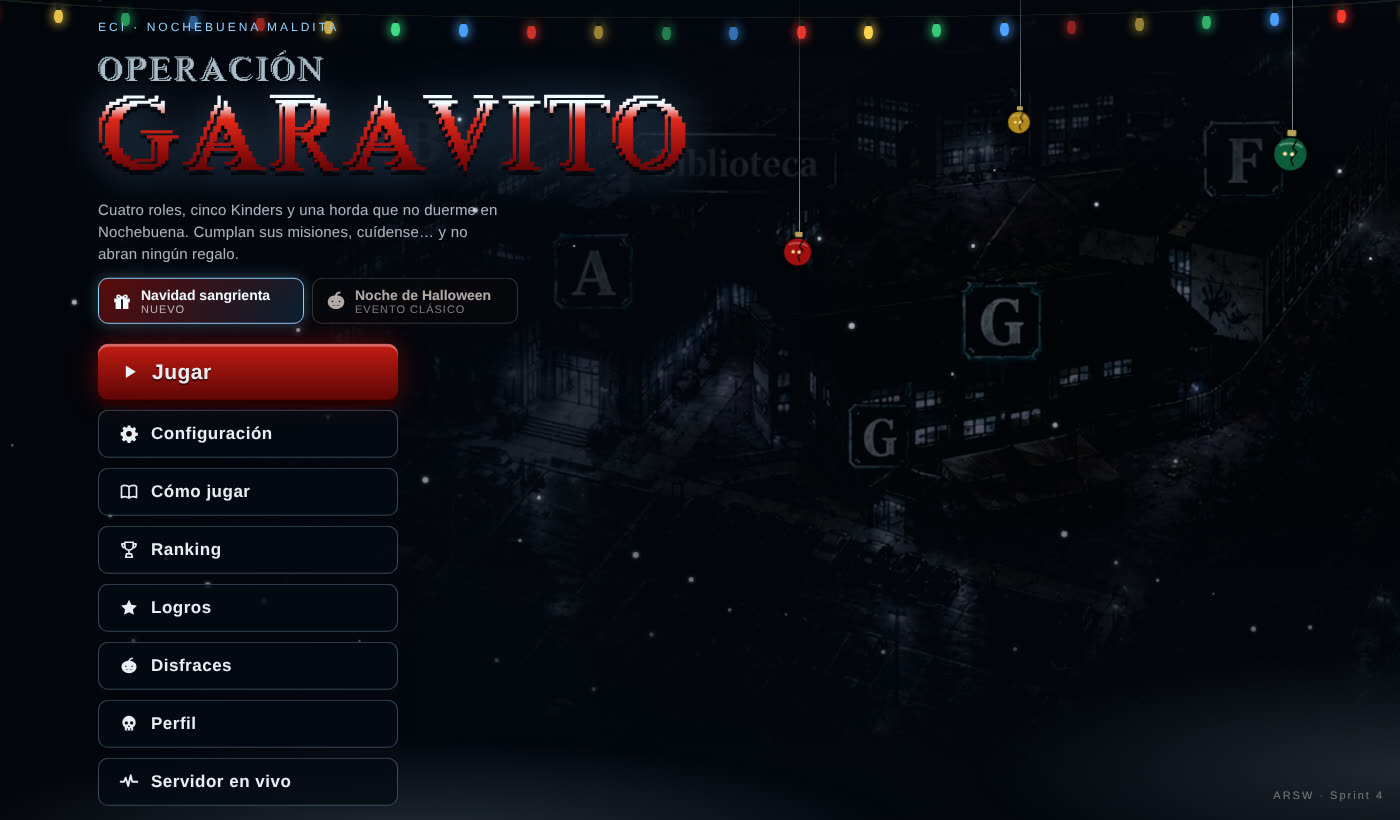
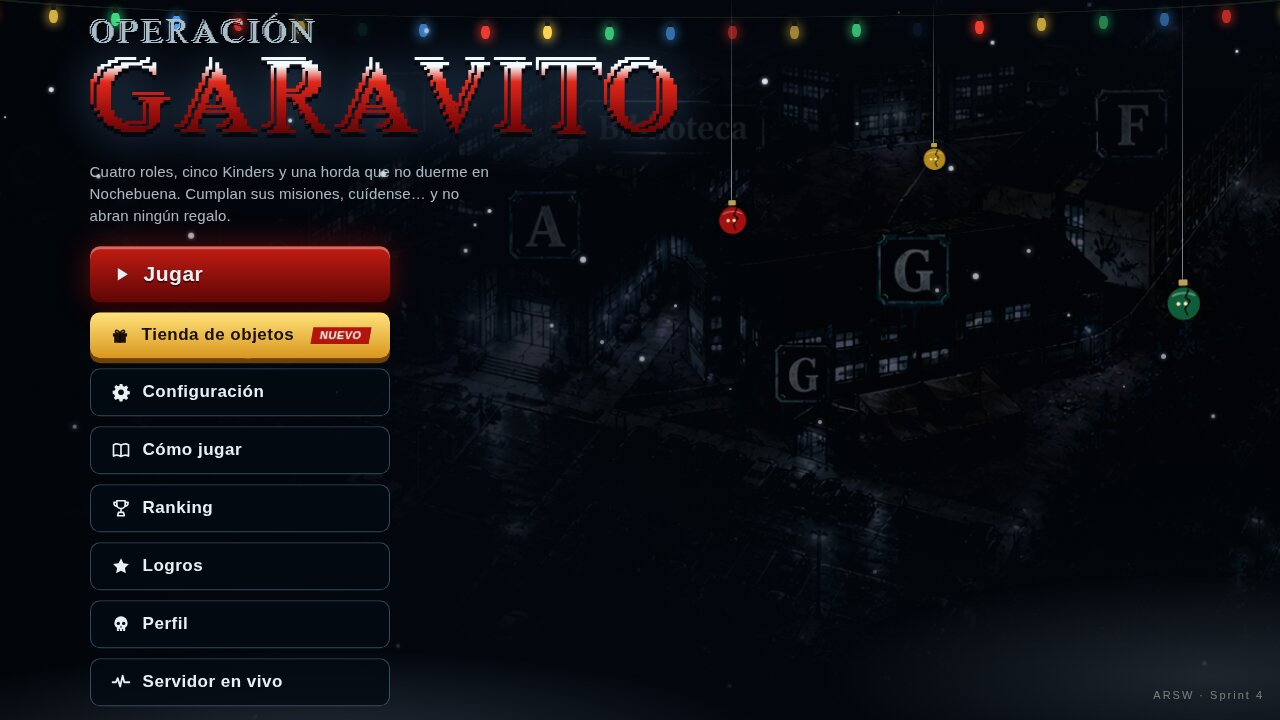
docs(temporadas): documentar el juego solo en Navidad con capturas nuevas

diff --git a/docs/temporadas/README.md b/docs/temporadas/README.md
@@ -1,61 +1,31 @@
-# Temporadas: Navidad sangrienta y Noche de Halloween
+# Navidad sangrienta
 
-El juego tiene **temporadas** (eventos): la misma partida con otra ambientación, como
-las listas de juego por evento de los shooters. La temporada actual es **Navidad
-sangrienta**: sigue dando miedo, pero con nieve, luces que fallan y regalos que nadie
-debería abrir. **Halloween**, la versión original, queda como evento para quien lo
-quiera jugar.
+El juego está ambientado en **Navidad sangrienta**: sigue dando miedo, pero con nieve,
+luces que fallan y regalos que nadie debería abrir.
 
-Las reglas no cambian: los roles, las misiones, los Kinders, los zombis y el jefe son
-los mismos. Solo cambia lo que se ve y se oye.
+Hasta noviembre de 2026 había dos temporadas y Halloween (la versión original) se podía
+elegir como evento. Se retiró para que el juego cargue y corra más liviano: ver
+[SOLO-NAVIDAD.md](SOLO-NAVIDAD.md). Lo que queda de Halloween es el tema base
+(`frontend/src/tema.css`, paleta `--hw-*` y fuentes), que `navidad.css` recolorea.
 
-## Cómo se elige
-
-En el menú principal, debajo del título, están los dos eventos. La elección se guarda
-en el navegador (`localStorage`, clave `garavito.temporada.v1`). Si nunca se eligió
-nada, la temporada es Navidad.
-
-![Menú en Navidad](img/01-menu-navidad.jpg)
-
-![Menú en Halloween](img/02-menu-halloween.jpg)
-
-**Dentro de una sala manda la temporada de la sala.** La elige quien la crea y la ven
-igual todos los que entran, aunque cada uno tenga otra preferida. Al salir de la sala,
-cada jugador vuelve a la suya. Así nadie juega una partida de Navidad mientras su
-compañero ve calabazas.
+![Menú](img/01-menu-navidad.jpg)
 
 ## Cómo funciona
 
-```
-menú (preferida, localStorage) ──crear sala──▶ /app/game/{código}/lobby { …, temporada }
-                                                     │
-                                       GameSession.temporada (NAVIDAD | HALLOWEEN)
-                                                     │
-                           LobbyState.temporada en cada estado del juego
-                                                     │
-            gameSync ─▶ setTemporadaDeSala() ─▶ <html data-temporada="navidad|halloween">
-                                                     │
-                     CSS (navidad.css) · React (useTemporada) · Phaser (getTemporada)
-```
+`<html data-temporada="navidad">` va fijo en `frontend/index.html` y activa las reglas
+de `navidad.css`. Los textos y la moneda (regalos) están en `frontend/src/game/navidad.js`.
+El servidor no sabe de ambientación: Papá Noel malvado y las travesuras de duendes y
+renos están siempre activos.
 
-| Pieza | Archivo | Qué hace |
-|---|---|---|
-| Temporada de la sala | `backend/.../game/Temporada.java`, `GameSession`, `LobbyState` | Se fija al crear la sala (por defecto `NAVIDAD`) y viaja en el estado del lobby. |
-| Preferida y activa | `frontend/src/game/temporada.js` | Catálogo de temporadas, preferencia guardada y la de la sala cuando hay una. |
-| React | `frontend/src/components/useTemporada.js` | Hook que redibuja el componente si cambia la temporada. |
-| Estilos | `frontend/src/navidad.css` | Reemplaza la paleta de Halloween (`--hw-*`) y los fondos cuando `data-temporada="navidad"`. |
-
-## Qué cambia en Navidad
+## Qué tiene
 
 ### Menús
 
-- **Fondo:** la vista nocturna del campus en vez del video de Halloween, con filtro de
+- **Fondo:** la vista nocturna del campus (`public/mapa/campus-noche.jpg`) con filtro de
   invierno, nieve que cae y una guirnalda de luces que falla.
-- **Criaturas:** donde Halloween tiene murciélagos y arañas, Navidad tiene copos de
-  nieve y esferas rotas que bajan de su hilo con ojos adentro
+- **Criaturas:** copos de nieve y esferas rotas que bajan de su hilo con ojos adentro
   (`NavidadCreatures.jsx`).
-- **Pantallas propias de Navidad**, hechas con código (sin las ilustraciones de
-  Halloween, que siguen intactas en su evento):
+- **Pantallas hechas con código:**
   - **Selección de edificio:** un **calendario de adviento maldito**. Cada edificio es
     una puerta del 19 al 24 de diciembre; al pasar por encima se entreabre y adentro
     asoman ojos rojos.
@@ -79,10 +49,10 @@ menú (preferida, localStorage) ──crear sala──▶ /app/game/{código}/lo
 
 ### Intro
 
-La primera vez en la sesión, Navidad abre con su propio video de intro, **"Navidad
+La primera vez en la sesión el juego abre con el video de intro, **"Navidad
 maldita"** (~38 s, con sonido): el duelo por la Decanatura y la presentación del juego.
 Se puede saltar o activar el sonido; al terminar, el menú queda sobre el campus de
-noche. Halloween conserva su video.
+noche.
 
 El video está en `frontend/public/video/intro-navidad.mp4` (720p, ~5 MB, recomprimido
 para la web) y su primer cuadro en `intro-navidad-poster.jpg`. Lo muestra
@@ -90,7 +60,7 @@ para la web) y su primer cuadro en `intro-navidad-poster.jpg`. Lo muestra
 
 ![Intro de Navidad](img/10-intro-navidad.jpg)
 
-La música de Navidad, en el menú y en la partida, es **"We Wish You a
+La música, en el menú y en la partida, es **"We Wish You a
 Merry Christmas"** (villancico tradicional en inglés, de dominio público) en La menor
 armónica: la caja de música rota, un coro grave durante el Kinder y un eco desafinado
 cuando hay peligro (`game/villancico.js`).
@@ -98,10 +68,9 @@ cuando hay peligro (`game/villancico.js`).
 ### Partida
 
 - **Decorado** (`game/NavidadDecor.js`): arbolitos de Navidad marchitos con luces que
-  titilan y fallan, y regalos abiertos a la fuerza, en los mismos lugares donde
-  Halloween pone calabazas. Hay carámbanos de hielo donde iban las telarañas. Las
-  posiciones salen de una semilla por edificio y piso, así que todos ven lo mismo.
-- **Nieve** que cae alrededor del jugador, en lugar de las motas de polvo.
+  titilan y fallan, regalos abiertos a la fuerza y carámbanos de hielo en las esquinas.
+  Las posiciones salen de una semilla por edificio y piso, así que todos ven lo mismo.
+- **Nieve** que cae alrededor del jugador.
 - **Luz fría:** la oscuridad es azul helada (`Lighting.js`) y un velo sobre el mapa
   enfría el piso y las luces cálidas sin apagar el rojo de la sangre.
 - **Zombis navideños:** gorro de Papá Noel rasgado (sale volando cuando mueren) y un
@@ -116,10 +85,10 @@ cuando hay peligro (`game/villancico.js`).
 
 #### Papá Noel malvado (Kinder 3)
 
-En Navidad, al empezar el **Kinder 3** aparece **Papá Noel malvado**: un jefe más débil
+Al empezar el **Kinder 3** aparece **Papá Noel malvado**: un jefe más débil
 que el Ingeniero de Sistemas (70% de vida, algo más lento, muerde menos) que suelta su
 "¡JO, JO, JO!" mientras persigue. Ese Kinder se pasa con la cuota, las misiones **y**
-derribándolo. En Halloween el Kinder 3 no tiene jefe.
+derribándolo.
 
 | Pieza | Archivo |
 |---|---|
@@ -129,7 +98,7 @@ derribándolo. En Halloween el Kinder 3 no tiene jefe.
 
 #### Duendes y renos
 
-Durante un Kinder de Navidad, cada 9 a 16 s sale **de la nada** (en una nube de nieve y
+Durante un Kinder, cada 9 a 16 s sale **de la nada** (en una nube de nieve y
 con un **!** encima) un **duende** cerca de un jugador; desde el Kinder 2 puede ser un
 **reno zombi**. Se queda un instante y tira hacia donde estaba el jugador: si se movió,
 la esquiva.
@@ -152,29 +121,25 @@ golpeado está en `screenFx.js`.
 
 #### Comida de diciembre
 
-En Navidad la comida que cura es la de diciembre en Colombia. Cura lo mismo y cuesta lo
+La comida que cura es la de diciembre en Colombia. Cura lo mismo y cuesta lo
 mismo (el servidor usa los mismos ids); solo cambia cómo se ve y se llama
 (`game/comidas.js`):
 
-| Halloween | Navidad |
+| Comida del servidor | Cómo se ve |
 |---|---|
 | Empanada (+20) | Natilla |
 | Arepa (+15) | Buñuelo |
 | Energizante (+10) | Chocolate caliente |
 | Gaseosa (+5) | Galleta de jengibre |
-| Comida del mapa (cuadrito verde) | Buñuelos, natilla, chocolate con queso y galletas (flotando) |
+| Comida del mapa | Buñuelos, natilla, chocolate con queso y galletas (flotando) |
 
 ![Comida de Navidad](img/19-comida-navidad.png)
 
 Pixel art generado con `tools/sprites/comidas_navidad.py`.
 
-Halloween dentro de la partida sigue exactamente igual que antes:
-
-![Partida en Halloween](img/07-partida-halloween.jpg)
-
 ### Sonido
 
-En la música generada (`game/music.js`), Navidad toca "We Wish You a Merry
+En la música generada (`game/music.js`) suena "We Wish You a Merry
 Christmas" en tono de terror (ver arriba). Durante el Kinder suman **cascabeles de
 trineo** al pulso.
 
@@ -183,15 +148,13 @@ trineo** al pulso.
 Desde el menú (botón dorado **Tienda de objetos**, justo debajo de Jugar) se abre una
 tienda que **cambia cada medianoche** y es la misma para todos ese día:
 
-- **Destacados:** dos objetos épicos o legendarios del evento.
-- **Ofertas del día:** cuatro más del evento (uno con **30% de descuento**) y uno de
-  otro evento que **vuelve** por un día.
+- **Destacados:** dos objetos épicos o legendarios.
+- **Ofertas del día:** cinco más (uno con **30% de descuento**).
 - Cartas del color de su **rareza** (común, raro, épico, legendario), etiquetas de
   **¡Nuevo!**, cuenta regresiva hasta la próxima rotación y un **casillero** con lo
   comprado para ponérselo o quitárselo.
 
-Se paga con lo que suelta la horda: **regalos** en Navidad y **dulces** en Halloween (es
-la misma bolsa). Hay 11 objetos de Navidad: gorro de Papá Noel, gorro de duende,
+Se paga con los **regalos** que suelta la horda. Hay 11 objetos: gorro de Papá Noel, gorro de duende,
 bufanda de la abuela, cornamenta, corona de acebo, guirnalda de luces, esfera rota,
 muñeco de nieve, máscara de Krampus, gorro de cascanueces y estrella de la punta. Lo que
 uno se pone lo ven todos en la partida.
@@ -209,20 +172,9 @@ La rotación sale de mezclar el catálogo con la fecha como semilla (`tiendaDelD
 
 | Prueba | Qué verifica |
 |---|---|
-| `TemporadaTest` (backend) | Navidad por defecto, la sala guarda la temporada con que se creó y entrar a una sala no se la cambia. |
-| `CandyCostumeTest` (backend) | Se aceptan los objetos de Navidad. |
-| `GameSessionZombieTest` (backend) | Papá Noel aparece en el Kinder 3 de Navidad y hay que derribarlo para pasarlo; en Halloween no. |
+| `CandyCostumeTest` (backend) | Se aceptan los objetos de la tienda. |
+| `GameSessionZombieTest` (backend) | Papá Noel aparece en el Kinder 3 y hay que derribarlo para pasarlo. |
 | `TravesurasTest` (backend) | El duende aparece con línea de visión, su bola le pega a quien no se mueve y se esquiva moviéndose; el barro quita vida; solo hay travesuras en un Kinder activo. |
 | `comidas.test.js` | La comida de Navidad cura y cuesta lo mismo, y toda la del mapa tiene su dibujo. |
-| `temporada.test.js` | Preferencia guardada, prioridad de la sala sobre la preferida y aviso de cambios. |
-| `costumes.test.js` | La tienda es la misma todo el día y rota entre días, con 2 destacados, 4 diarios (uno en oferta) y uno que vuelve; se compra al precio de oferta. |
-| `e2e/temporada.spec.js` | Elegir Halloween en el menú y que un invitado con Navidad vea la temporada de la sala (y vuelva a la suya al salir). |
-| `e2e/partida.spec.js` | Navidad abre con su video de intro; Halloween conserva el suyo. |
-
-## Agregar otra temporada
-
-1. Un valor nuevo en `Temporada.java` y su entrada en `TEMPORADAS` (`temporada.js`):
-   nombre, textos y moneda.
-2. Un CSS con `:root[data-temporada='nueva']` (como `navidad.css`).
-3. En `MainScene`, `Lighting`, `ZombieLayer` y `music.js`, la rama de la nueva
-   temporada, donde haga falta.
+| `costumes.test.js` | La tienda es la misma todo el día y rota entre días, con 2 destacados y 5 diarios (uno en oferta); se compra al precio de oferta. |
+| `e2e/partida.spec.js` | El menú abre con el video de intro y se puede saltar. |

diff --git a/GAMEPLAY.md b/GAMEPLAY.md
@@ -132,7 +132,7 @@ generado: **entrada normalizada** (la diagonal deja de ir 41% más rápido) y
 **dash con `Shift`/`Espacio`** con invulnerabilidad breve, que es el único
 recurso defensivo antes del hacha.
 
-## 8. Lo que se agregó después (temporada de Halloween)
+## 8. Lo que se agregó después (primera temporada, Halloween)
 
 - **Misiones**: cuatro minijuegos por rol (antes dos). `MissionBoard` reparte
   tres distintos por Kinder y pone primero el que no tocó en el anterior.
@@ -157,18 +157,17 @@ recurso defensivo antes del hacha.
 - **App instalable** (PWA): manifiesto, íconos y service worker solo en
   producción; el WebSocket y la API nunca pasan por la caché.
 
-## 9. Temporada de Navidad (y Halloween como evento)
+## 9. Navidad sangrienta
 
-- **Temporadas**: la sala tiene una temporada (`Temporada.java`: `NAVIDAD` por
-  defecto, `HALLOWEEN` como evento) que elige quien la crea y viaja en
-  `LobbyState.temporada`. Solo cambia la ambientación, no las reglas. El
-  jugador elige su evento preferido en el menú; dentro de una sala manda la de
-  la sala.
-- **Navidad sangrienta**: menús con el campus nevado y luces que fallan, árboles
+- **Solo Navidad**: hubo un tiempo con dos temporadas (Navidad y Halloween como
+  evento); en noviembre de 2026 se retiró Halloween para que el juego sea más
+  liviano (`docs/temporadas/SOLO-NAVIDAD.md`). Papá Noel malvado (Kinder 3) y
+  las travesuras de duendes y renos están siempre activos.
+- **Ambientación**: menús con el campus nevado y luces que fallan, árboles
   marchitos y regalos rotos en el edificio, carámbanos, nieve, oscuridad azul,
   zombis con gorro de Papá Noel, caja de música desafinada y cascabeles. La
-  moneda de la horda se llama "regalos". Tres disfraces nuevos: gorro de Papá
-  Noel, cornamenta de reno y Krampus.
+  moneda de la horda se llama "regalos". La tienda de objetos vende 11 objetos
+  navideños con rotación diaria.
 - Detalles y capturas en `docs/temporadas`.
 
 ## Fuera de alcance

diff --git a/README.md b/README.md
@@ -12,7 +12,7 @@ Juego cooperativo de decisión bajo presión, ambientado en la ECI — Proyecto 
 - backend/ — Spring Boot · Java 21 · WebSocket/STOMP
 - frontend/ — React · Vite
 - docs/ESCALABILIDAD.md — mediciones de carga y propuesta para escalar
-- docs/temporadas — temporada de Navidad (la actual) y Halloween como evento, con capturas
+- docs/temporadas — ambientación de Navidad sangrienta, con capturas
 - docs/k6, docs/prometheus, docs/grafana — pruebas de carga y monitoreo, con capturas y resultados
 - k6/ — script de prueba de carga · monitoring/ — Prometheus y Grafana con los tableros ya configurados
 
